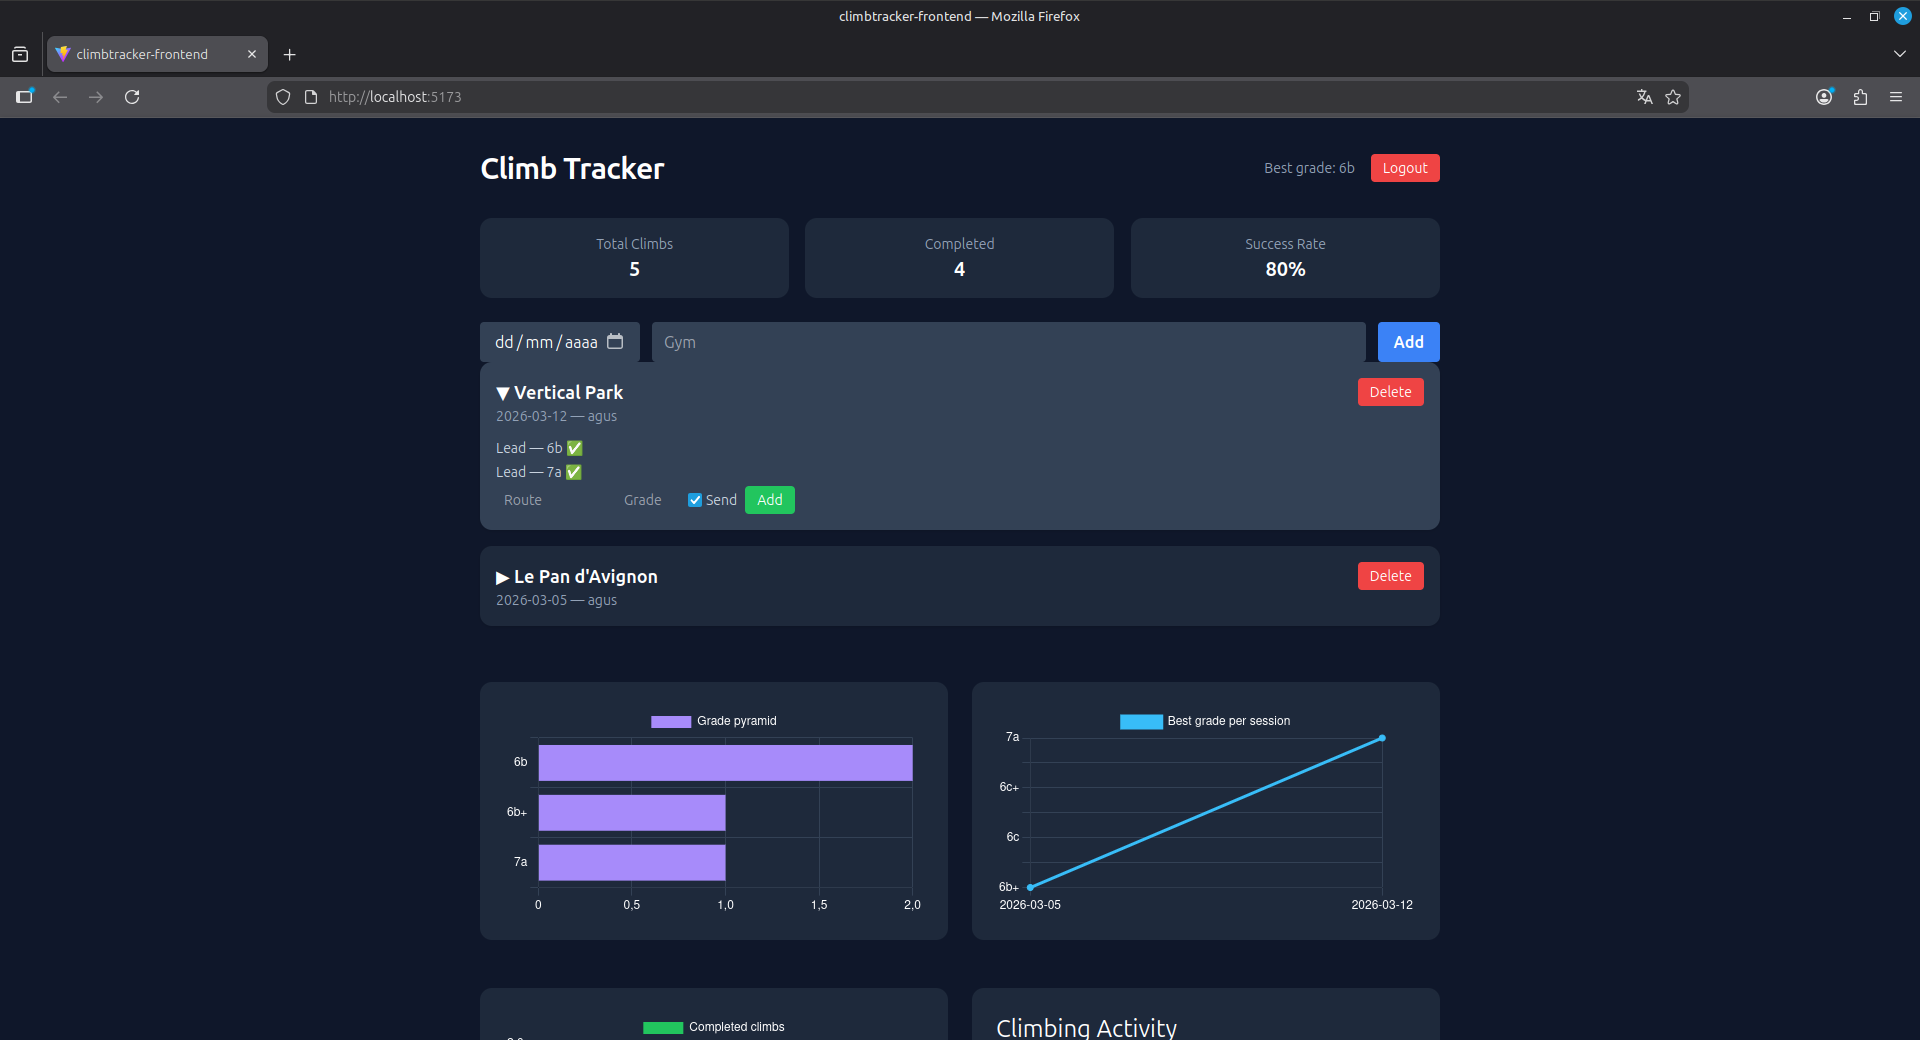
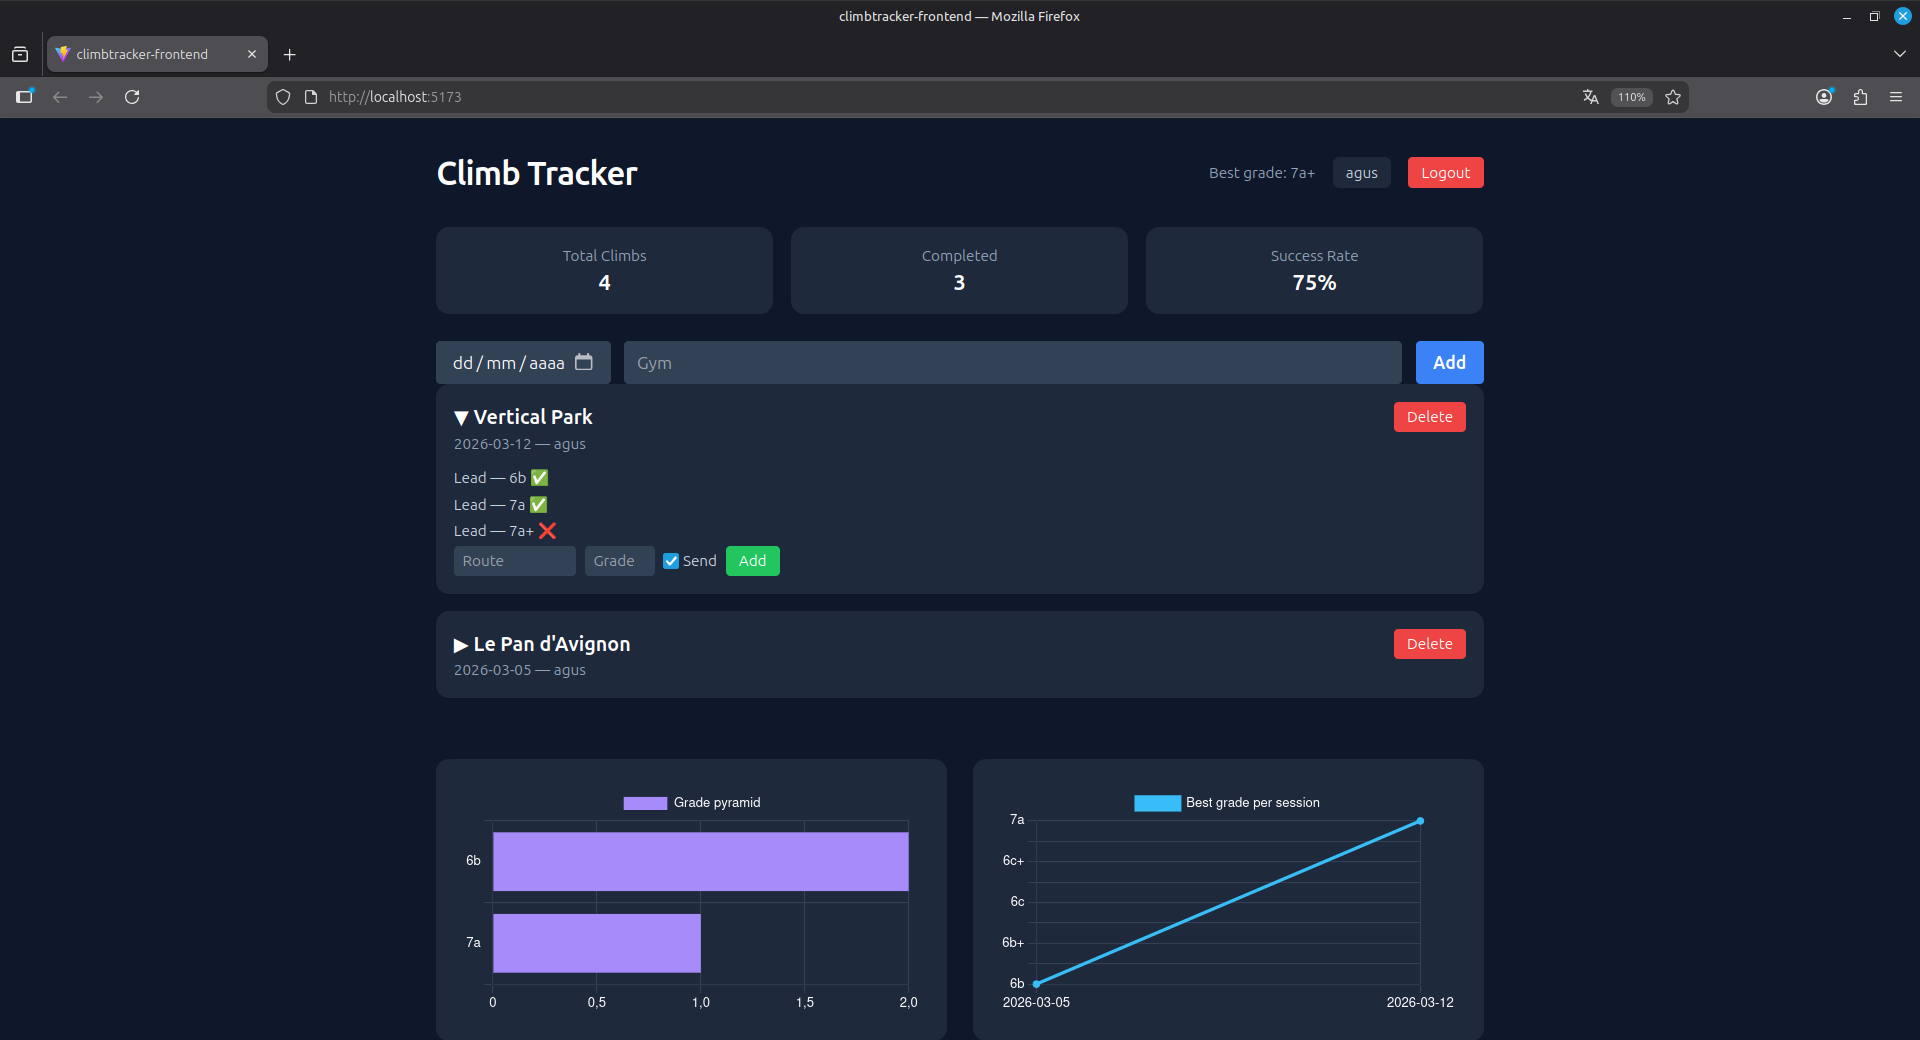
Update project screenshots and fix minor bugs

diff --git a/climbtracker-frontend/src/App.tsx b/climbtracker-frontend/src/App.tsx
@@ -210,6 +210,32 @@ function App() {
   }
 
   // -------------------------
+  // Get Best Grade
+  // -------------------------
+
+  const getBestGrade = () => {
+
+  if (climbs.length === 0) return null
+
+    const gradeOrder = [
+      "4", "4+", "5a", "5a+", "5b", "5b+", "5c", "5c+",
+      "6a", "6a+", "6b", "6b+", "6c", "6c+",
+      "7a", "7a+", "7b", "7b+", "7c", "7c+",
+      "8a", "8a+", "8b", "8b+", "8c", "8c+",
+      "9a", "9a+", "9b", "9b+", "9c", "9c+"
+    ]
+
+    return climbs.reduce((best, climb) => {
+
+      return gradeOrder.indexOf(climb.grade) >
+            gradeOrder.indexOf(best)
+        ? climb.grade
+        : best
+
+    }, climbs[0].grade)
+
+  }
+  // -------------------------
   // Dashboard
   // -------------------------
 
@@ -231,7 +257,7 @@ function App() {
 
             {maxGrade && (
               <span className="text-sm text-slate-400">
-                Best: {maxGrade}
+                Best grade: {getBestGrade() ?? "-"}
               </span>
             )}
 

diff --git a/climbtracker-frontend/src/components/SessionList.tsx b/climbtracker-frontend/src/components/SessionList.tsx
@@ -12,15 +12,15 @@ function SessionList({ sessions, refreshSessions }: Props) {
 
   const [expandedSession, setExpandedSession] = useState<number | null>(null)
 
-  const handleDelete = (e: React.MouseEvent, id: number) => {
+  const handleDelete = async (e: React.MouseEvent, id: number) => {
 
-    e.preventDefault()
     e.stopPropagation()
+    e.preventDefault()
 
     const confirmed = window.confirm("Delete this session?")
     if (!confirmed) return
 
-    deleteSession(id)
+    await deleteSession(id)
     refreshSessions()
 
   }
@@ -61,7 +61,6 @@ function SessionList({ sessions, refreshSessions }: Props) {
           </div>
 
           <button
-            type="button"
             onClick={(e) => handleDelete(e, session.id)}
             className="bg-red-500 hover:bg-red-600 px-3 py-1 rounded text-sm"
           >

diff --git a/climbtracker-frontend/src/components/ProgressChart.tsx b/climbtracker-frontend/src/components/ProgressChart.tsx
@@ -26,11 +26,13 @@ interface Props {
 
 // orden real de grados
 const gradeOrder = [
-  "4","4+","5a","5a+","5b","5b+","5c","5c+",
-  "6a","6a+","6b","6b+","6c","6c+",
-  "7a","7a+","7b","7b+","7c","7c+",
-  "8a","8a+","8b","8b+"
+  "4", "4+", "5a", "5a+", "5b", "5b+", "5c", "5c+",
+  "6a", "6a+", "6b", "6b+", "6c", "6c+",
+  "7a", "7a+", "7b", "7b+", "7c", "7c+",
+  "8a", "8a+", "8b", "8b+", "8c", "8c+",
+  "9a", "9a+", "9b", "9b+", "9c", "9c+"
 ]
+
 
 function ProgressChart({ climbs }: Props) {
 

diff --git a/climbtracker-frontend/src/components/GradePyramidChart.tsx b/climbtracker-frontend/src/components/GradePyramidChart.tsx
@@ -25,11 +25,13 @@ interface Props {
 }
 
 const gradeOrder = [
-  "4","4+","5a","5a+","5b","5b+","5c","5c+",
-  "6a","6a+","6b","6b+","6c","6c+",
-  "7a","7a+","7b","7b+","7c","7c+",
-  "8a","8a+","8b","8b+"
+  "4", "4+", "5a", "5a+", "5b", "5b+", "5c", "5c+",
+  "6a", "6a+", "6b", "6b+", "6c", "6c+",
+  "7a", "7a+", "7b", "7b+", "7c", "7c+",
+  "8a", "8a+", "8b", "8b+", "8c", "8c+",
+  "9a", "9a+", "9b", "9b+", "9c", "9c+"
 ]
+
 
 function GradePyramidChart({ climbs }: Props) {
 

diff --git a/climbtracker-frontend/src/components/SessionProgressChart.tsx b/climbtracker-frontend/src/components/SessionProgressChart.tsx
@@ -25,9 +25,11 @@ interface Props {
 }
 
 const gradeOrder = [
-  "4","4+","5a","5b","5c",
-  "6a","6a+","6b","6b+","6c","6c+",
-  "7a","7a+","7b","7b+","7c"
+  "4", "4+", "5a", "5a+", "5b", "5b+", "5c", "5c+",
+  "6a", "6a+", "6b", "6b+", "6c", "6c+",
+  "7a", "7a+", "7b", "7b+", "7c", "7c+",
+  "8a", "8a+", "8b", "8b+", "8c", "8c+",
+  "9a", "9a+", "9b", "9b+", "9c", "9c+"
 ]
 
 function SessionProgressChart({ climbs }: Props) {

diff --git a/climbtracker-frontend/src/components/GradeProgressChart.tsx b/climbtracker-frontend/src/components/GradeProgressChart.tsx
@@ -31,8 +31,10 @@ const gradeOrder = [
   "4", "4+", "5a", "5a+", "5b", "5b+", "5c", "5c+",
   "6a", "6a+", "6b", "6b+", "6c", "6c+",
   "7a", "7a+", "7b", "7b+", "7c", "7c+",
-  "8a", "8a+", "8b", "8b+"
+  "8a", "8a+", "8b", "8b+", "8c", "8c+",
+  "9a", "9a+", "9b", "9b+", "9c", "9c+"
 ]
+
 
 function GradeProgressChart({ climbs }: Props) {
 
